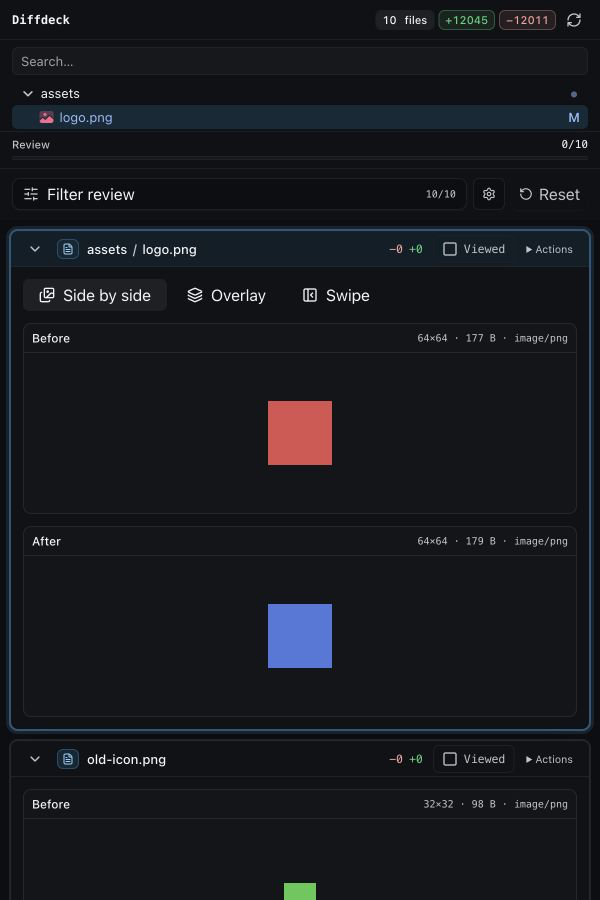
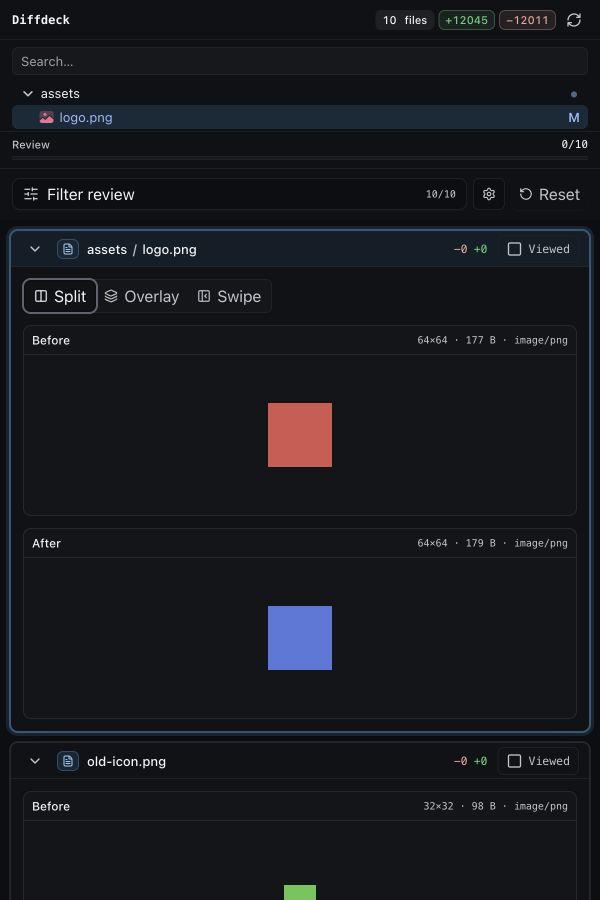
fix: compact image comparison controls

diff --git a/src/client/components/diff/ImageDiff.tsx b/src/client/components/diff/ImageDiff.tsx
@@ -1,6 +1,7 @@
 import { useEffect, useMemo, useState } from "react";
-import { Images, Layers3, PanelLeftClose } from "lucide-react";
+import { Columns2, Layers3, PanelLeftClose } from "lucide-react";
 import { fetchJson } from "../../lib/api.js";
+import { cn } from "../../lib/cn.js";
 import { Button } from "../ui/button.js";
 
 type Mode = "side-by-side" | "overlay" | "swipe";
@@ -58,18 +59,24 @@ export function ImageDiff({ path }: { path: string }) {
   return (
     <section aria-label={`Image diff for ${path}`} className="space-y-3 p-3">
       {both ? (
-        <div className="flex gap-1" role="group" aria-label="Image comparison mode">
+        <div
+          className="app-image-mode-switch inline-flex items-center gap-0.5 rounded-md border border-border/70 bg-muted/45 p-0.5"
+          role="group"
+          aria-label="Image comparison mode"
+        >
           <ModeButton
             active={activeMode === "side-by-side"}
             onClick={() => setMode("side-by-side")}
-            icon={<Images />}
+            icon={<Columns2 />}
+            label="Side by side"
           >
-            Side by side
+            Split
           </ModeButton>
           <ModeButton
             active={activeMode === "overlay"}
             onClick={() => setMode("overlay")}
             icon={<Layers3 />}
+            label="Overlay"
           >
             Overlay
           </ModeButton>
@@ -77,6 +84,7 @@ export function ImageDiff({ path }: { path: string }) {
             active={activeMode === "swipe"}
             onClick={() => setMode("swipe")}
             icon={<PanelLeftClose />}
+            label="Swipe"
           >
             Swipe
           </ModeButton>
@@ -133,20 +141,30 @@ function ModeButton({
   active,
   children,
   icon,
+  label,
   onClick,
 }: {
   active: boolean;
   children: React.ReactNode;
   icon: React.ReactNode;
+  label: string;
   onClick: () => void;
 }) {
   return (
     <Button
       type="button"
-      variant={active ? "secondary" : "ghost"}
+      variant="ghost"
+      size="xs"
+      aria-label={label}
       aria-pressed={active}
+      title={label}
       onClick={onClick}
-      className="h-8 text-xs"
+      className={cn(
+        "h-7 gap-1.5 rounded-[0.3rem] px-2 text-[11px] font-medium shadow-none [&_svg]:size-3.5",
+        active
+          ? "bg-card text-foreground shadow-sm hover:bg-card"
+          : "text-muted-foreground hover:text-foreground",
+      )}
     >
       {icon}
       {children}
